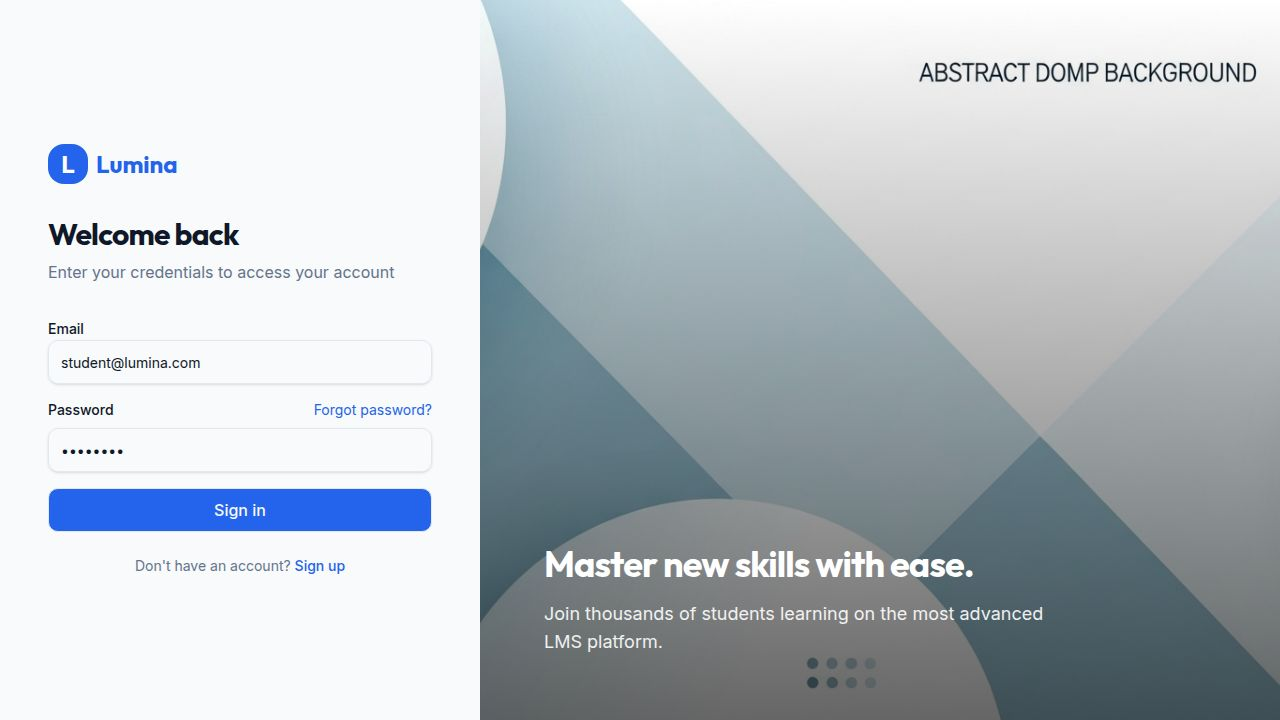
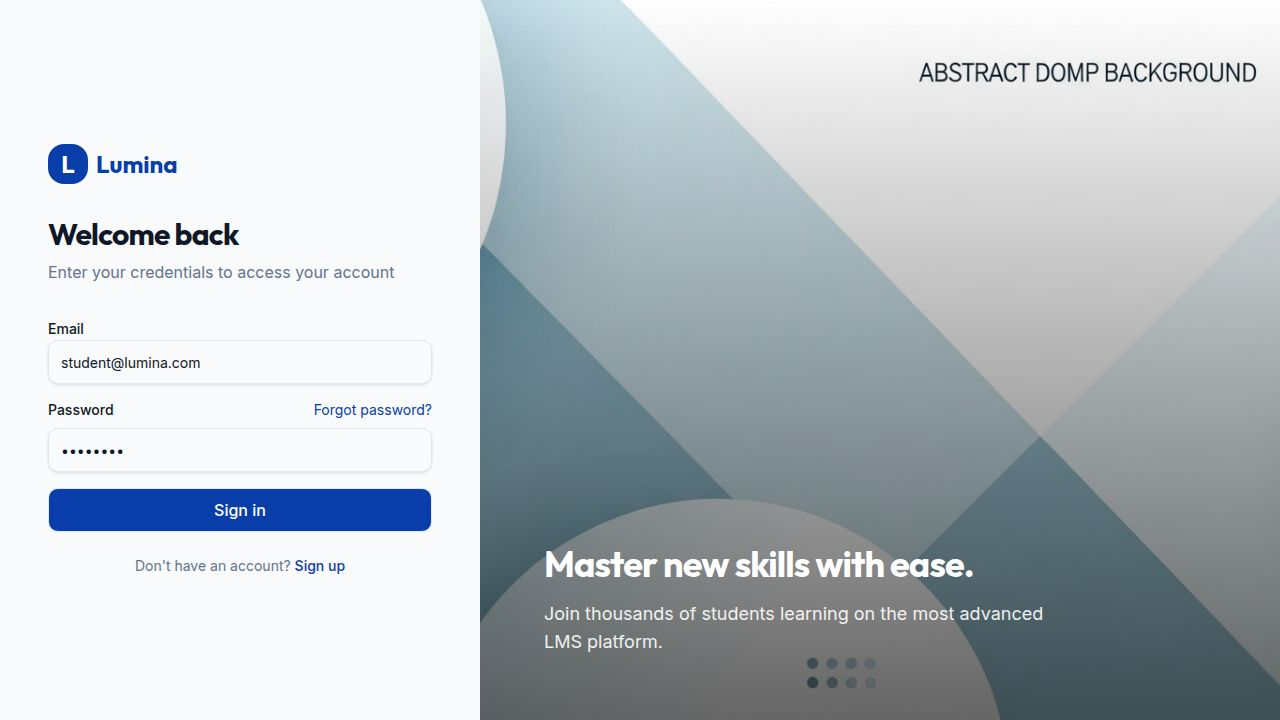
Update application colors to match VTU brand guidelines
Modify index.css to implement VTU's official blue and gold color palette, updating primary, secondary, and accent color variables, and adjust StudentLayout component to display "VTU Online" with a gold accent in the header.

Replit-Commit-Author: Agent
Replit-Commit-Session-Id: 5e69963a-7a0c-4187-ae47-4e70bf9f4942
Replit-Commit-Checkpoint-Type: full_checkpoint
Replit-Commit-Event-Id: 5310088a-1f62-42fc-a6d7-4deb62a9eab0
Replit-Commit-Screenshot-Url: https://storage.googleapis.com/screenshot-production-us-central1/d19b8a95-6b36-4bbb-87ff-ddd33fc5f158/5e69963a-7a0c-4187-ae47-4e70bf9f4942/TeUNGfy
Replit-Helium-Checkpoint-Created: true

Changed region(s): [[0.0312, 0.6722, 0.3438, 0.7944], [0.0312, 0.1833, 0.1562, 0.275], [0.25, 0.55, 0.3438, 0.5806]]

diff --git a/client/src/index.css b/client/src/index.css
@@ -56,7 +56,7 @@
   --font-heading: 'Outfit', sans-serif;
 }
 
-/* LIGHT MODE - Clean, Trustworthy Blue/Slate */
+/* LIGHT MODE - VTU Inspired (Deep Blue & Gold) */
 :root {
   --background: 210 40% 98%;
   --foreground: 222 47% 11%;
@@ -67,10 +67,10 @@
   --popover: 0 0% 100%;
   --popover-foreground: 222 47% 11%;
 
-  --primary: 221 83% 53%; /* Brand Blue */
-  --primary-foreground: 210 40% 98%;
+  --primary: 220 90% 35%; /* VTU Deep Blue */
+  --primary-foreground: 0 0% 100%;
 
-  --secondary: 210 40% 96.1%;
+  --secondary: 45 95% 50%; /* VTU Gold/Yellow */
   --secondary-foreground: 222 47% 11.2%;
 
   --muted: 210 40% 96.1%;
@@ -84,24 +84,24 @@
 
   --border: 214.3 31.8% 91.4%;
   --input: 214.3 31.8% 91.4%;
-  --ring: 221 83% 53%;
+  --ring: 220 90% 35%;
 
   --radius: 0.75rem;
 
-  --chart-1: 12 76% 61%;
-  --chart-2: 173 58% 39%;
+  --chart-1: 220 90% 35%;
+  --chart-2: 45 95% 50%;
   --chart-3: 197 37% 24%;
   --chart-4: 43 74% 66%;
   --chart-5: 27 87% 67%;
 
-  --sidebar: 0 0% 100%;
-  --sidebar-foreground: 222 47% 11%;
-  --sidebar-primary: 221 83% 53%;
-  --sidebar-primary-foreground: 0 0% 98%;
-  --sidebar-accent: 210 40% 96.1%;
-  --sidebar-accent-foreground: 222 47% 11.2%;
-  --sidebar-border: 214.3 31.8% 91.4%;
-  --sidebar-ring: 217.2 91.2% 59.8%;
+  --sidebar: 220 90% 30%; /* Deep Blue Sidebar */
+  --sidebar-foreground: 0 0% 100%;
+  --sidebar-primary: 45 95% 50%; /* Gold for active states */
+  --sidebar-primary-foreground: 222 47% 11%;
+  --sidebar-accent: 220 80% 40%; /* Slightly lighter blue for hover */
+  --sidebar-accent-foreground: 0 0% 100%;
+  --sidebar-border: 220 80% 40%;
+  --sidebar-ring: 45 95% 50%;
 }
 
 .dark {
@@ -114,11 +114,11 @@
   --popover: 222 47% 11%;
   --popover-foreground: 210 40% 98%;
 
-  --primary: 217.2 91.2% 59.8%;
+  --primary: 220 80% 60%; /* Lighter blue for dark mode */
   --primary-foreground: 222 47.1% 11.2%;
 
-  --secondary: 217.2 32.6% 17.5%;
-  --secondary-foreground: 210 40% 98%;
+  --secondary: 45 95% 50%;
+  --secondary-foreground: 222 47% 11.2%;
 
   --muted: 217.2 32.6% 17.5%;
   --muted-foreground: 215 20.2% 65.1%;
@@ -131,22 +131,22 @@
 
   --border: 217.2 32.6% 17.5%;
   --input: 217.2 32.6% 17.5%;
-  --ring: 224.3 76.3% 48%;
+  --ring: 220 80% 60%;
 
-  --chart-1: 220 70% 50%;
-  --chart-2: 160 60% 45%;
+  --chart-1: 220 80% 60%;
+  --chart-2: 45 95% 50%;
   --chart-3: 30 80% 55%;
   --chart-4: 280 65% 60%;
   --chart-5: 340 75% 55%;
 
   --sidebar: 222 47% 11%;
   --sidebar-foreground: 210 40% 98%;
-  --sidebar-primary: 224.3 76.3% 48%;
+  --sidebar-primary: 220 80% 60%;
   --sidebar-primary-foreground: 0 0% 100%;
   --sidebar-accent: 217.2 32.6% 17.5%;
   --sidebar-accent-foreground: 210 40% 98%;
   --sidebar-border: 217.2 32.6% 17.5%;
-  --sidebar-ring: 217.2 91.2% 59.8%;
+  --sidebar-ring: 220 80% 60%;
 }
 
 @layer base {

diff --git a/client/src/components/layout/StudentLayout.tsx b/client/src/components/layout/StudentLayout.tsx
@@ -52,10 +52,10 @@ export default function StudentLayout({ children }: { children: React.ReactNode 
         <Sidebar collapsible="icon" className="border-r border-border/40">
           <SidebarHeader className="h-16 flex items-center justify-center border-b border-border/40 px-6">
             <div className="flex items-center gap-2 font-heading font-bold text-xl text-primary w-full overflow-hidden">
-              <div className="size-8 rounded-lg bg-primary flex items-center justify-center shrink-0">
-                <span className="text-white">L</span>
+              <div className="size-8 rounded-lg bg-secondary text-secondary-foreground flex items-center justify-center shrink-0 shadow-sm">
+                <span className="font-bold">V</span>
               </div>
-              <span className="truncate group-data-[collapsible=icon]:hidden">Lumina</span>
+              <span className="truncate group-data-[collapsible=icon]:hidden text-primary">VTU Online</span>
             </div>
           </SidebarHeader>
           <SidebarContent className="px-2 py-4">
